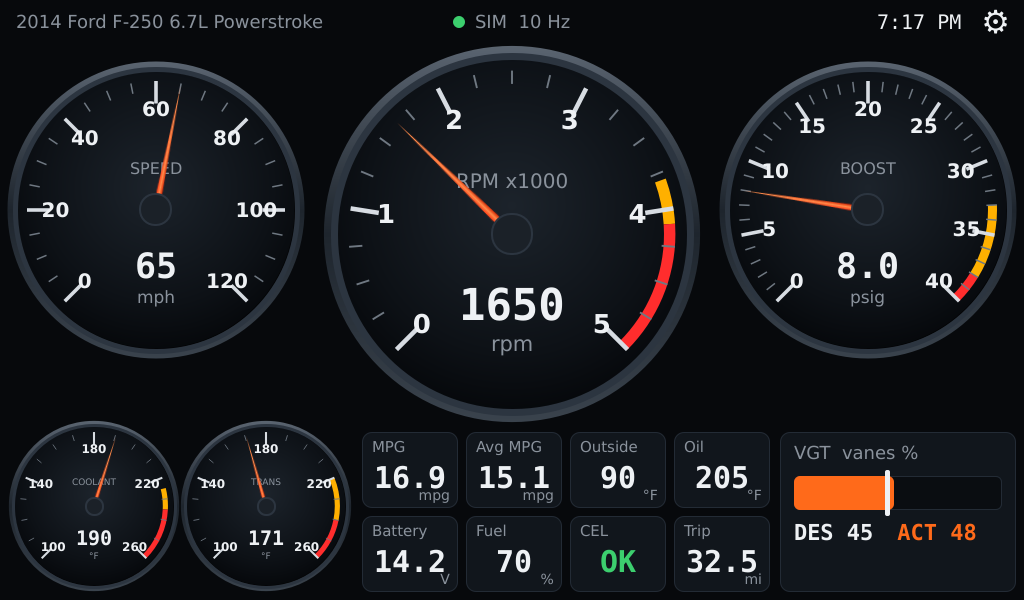
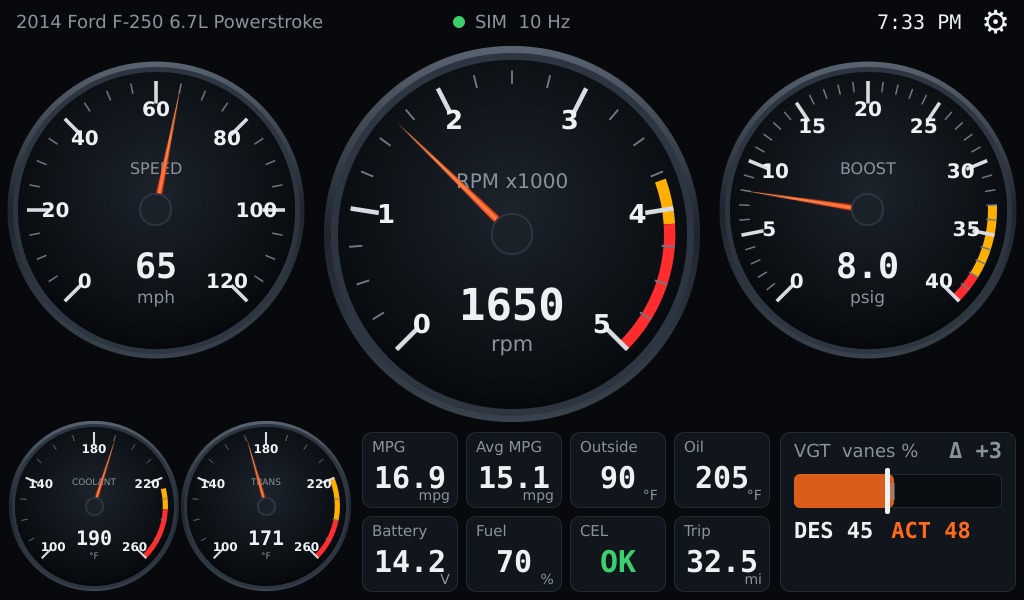
VGT deviation visual: shaded desired-vs-actual band, delta readout, sustained-mismatch alarm
The band between the desired marker and actual fill is coloured by the
size of the gap (grey / amber at dev_warn / red at dev_alarm). The panel
border goes amber or flashing red with 'VANE MISMATCH' / 'VANES NOT
TRACKING' only after the gap persists dev_hold seconds, so normal spool-up
lag doesn't trip it. Thresholds live in the profile. New derived vgt_dev
channel is logged and on the status screen.

Claude-Session: https://claude.ai/code/session_01NB1fknYgN1kqnugTgy4PLe

Changed region(s): [[0.75, 0.72, 0.9688, 0.9], [0.875, 0.03, 0.9062, 0.06]]

diff --git a/gaugeworks/qml/DualBar.qml b/gaugeworks/qml/DualBar.qml
@@ -1,39 +1,82 @@
-// Two values on one bar: actual = fill, desired = marker. Used for VGT vanes.
+// Two values that should track each other (VGT desired vs actual).
+// Fill = actual, white marker = desired, shaded band between them = deviation,
+// coloured by size. The panel only goes warn/alarm when the deviation is
+// SUSTAINED for holdMs (vanes lag briefly during normal transients).
 import QtQuick
 
 Rectangle {
     id: d
     property var theme
-    property string label: "VGT"
+    property var cfg: ({})
+    property string label: cfg.label || "VGT"
     property real desired: 0
     property real actual: 0
     property bool desiredValid: false
     property bool actualValid: false
-    readonly property var colors: theme ? theme.colors : ({})
-    function pct(v) { return Math.max(0, Math.min(100, v)) / 100 }
 
-    color: colors.panel || "#111"
-    border.color: colors.panelBorder || "#333"
+    readonly property var colors: theme ? theme.colors : ({})
+    readonly property real devWarn: cfg.dev_warn !== undefined ? cfg.dev_warn : 10
+    readonly property real devAlarm: cfg.dev_alarm !== undefined ? cfg.dev_alarm : 20
+    readonly property int holdMs: cfg.dev_hold !== undefined ? cfg.dev_hold * 1000 : 1500
+    readonly property bool bothValid: desiredValid && actualValid
+    readonly property real dev: bothValid ? actual - desired : 0
+    readonly property real absDev: Math.abs(dev)
+    readonly property int level: !bothValid ? 0 : absDev >= devAlarm ? 2 : absDev >= devWarn ? 1 : 0
+    property int held: 0              // level that has persisted >= holdMs
+    property bool flash: false
+
+    function pct(v) { return Math.max(0, Math.min(100, v)) / 100 }
+    function levelColor(l) { return l === 2 ? colors.alarm : l === 1 ? colors.warn : colors.dim }
+
+    onLevelChanged: {
+        if (level < held) held = level      // clear immediately when it recovers
+        if (level > held) holdTimer.restart()
+        else holdTimer.stop()
+    }
+    Timer { id: holdTimer; interval: d.holdMs; onTriggered: d.held = d.level }
+    Timer { running: d.held === 2; interval: 400; repeat: true; onTriggered: d.flash = !d.flash }
+
+    color: held === 2 && flash ? Qt.darker(colors.alarm, 2.2) : (colors.panel || "#111")
+    border.color: held > 0 ? levelColor(held) : (colors.panelBorder || "#333")
+    border.width: held > 0 ? 3 : 1
     radius: 10
 
     Text {
-        x: 14; y: 10
+        x: 14; y: 8
         text: d.label + "  vanes %"
         color: d.colors.dim || "gray"
         font.family: d.theme ? d.theme.fonts.label : ""
         font.pixelSize: 18
     }
+    Text {  // live deviation readout, top-right
+        anchors.right: parent.right; anchors.rightMargin: 14; y: 6
+        text: d.bothValid ? "Δ " + (d.dev >= 0 ? "+" : "") + d.dev.toFixed(0) : "Δ --"
+        color: d.bothValid ? d.levelColor(d.level) : (d.colors.dim || "gray")
+        font.family: d.theme ? d.theme.fonts.digits : ""
+        font.pixelSize: 22; font.bold: true
+    }
     Rectangle {
         id: track
-        x: 14; y: 44; width: d.width - 28; height: 34; radius: 6
+        x: 14; y: 42; width: d.width - 28; height: 34; radius: 6
         color: "#0a0d11"; border.color: d.colors.panelBorder || "#333"
-        Rectangle {
+        Rectangle {  // actual = fill
             width: d.actualValid ? parent.width * d.pct(d.actual) : 0
             height: parent.height; radius: 6
             color: d.colors.accent || "orange"
+            opacity: 0.85
             Behavior on width { SmoothedAnimation { velocity: 600 } }
         }
-        Rectangle {  // desired marker
+        Rectangle {  // deviation band between desired and actual
+            visible: d.bothValid && d.absDev >= 1
+            x: parent.width * d.pct(Math.min(d.desired, d.actual))
+            width: parent.width * Math.abs(d.pct(d.actual) - d.pct(d.desired))
+            y: parent.height * 0.25; height: parent.height * 0.5
+            color: d.levelColor(d.level)
+            opacity: d.level === 0 ? 0.5 : 0.95
+            Behavior on x { SmoothedAnimation { velocity: 600 } }
+            Behavior on width { SmoothedAnimation { velocity: 600 } }
+        }
+        Rectangle {  // desired = marker
             visible: d.desiredValid
             x: parent.width * d.pct(d.desired) - width / 2
             y: -6; width: 5; height: parent.height + 12; radius: 2
@@ -42,7 +85,7 @@ Rectangle {
         }
     }
     Row {
-        x: 14; y: 88; spacing: 24
+        x: 14; y: 86; spacing: 18
         Text {
             text: "DES " + (d.desiredValid ? d.desired.toFixed(0) : "--")
             color: d.colors.text || "white"
@@ -53,5 +96,14 @@ Rectangle {
             color: d.colors.accent || "orange"
             font.family: d.theme ? d.theme.fonts.digits : ""; font.pixelSize: 22; font.bold: true
         }
+    }
+    Text {
+        x: 14; y: 122; width: d.width - 28
+        visible: d.held > 0
+        text: d.held === 2 ? "VANES NOT TRACKING" : "VANE MISMATCH"
+        color: d.levelColor(d.held)
+        font.family: d.theme ? d.theme.fonts.label : ""
+        font.pixelSize: 16; font.bold: true
+        fontSizeMode: Text.HorizontalFit; minimumPixelSize: 11; elide: Text.ElideRight
     }
 }

diff --git a/gaugeworks/qml/Main.qml b/gaugeworks/qml/Main.qml
@@ -109,7 +109,7 @@ Rectangle {
             readonly property var c: gauges.vgt || ({})
             visible: !!gauges.vgt
             x: 780; y: 432; width: 236; height: 160
-            theme: root.theme; label: c.label || "VGT"
+            theme: root.theme; cfg: c
             desired: val(c.desired); desiredValid: ok(c.desired)
             actual: val(c.actual); actualValid: ok(c.actual)
         }

diff --git a/gaugeworks/app.py b/gaugeworks/app.py
@@ -26,6 +26,10 @@ DEMO_SCENES = {
               "vgt_desired": 70, "vgt_actual": 74, "econ_inst": 2.1, "econ_avg": 5.9,
               "ambient": 40, "oil_temp_std": 118, "battery": 14.1, "fuel_level": 22, "mil": 1,
               "trip_dist": 140.2, "map": 250, "iat": 45, "dpf_dp": 2.0},
+    "vgtfault": {"rpm": 2100, "speed": 96.6, "boost": 90, "baro": 99, "coolant": 89, "trans_temp": 80,
+                 "vgt_desired": 40, "vgt_actual": 75, "econ_inst": 5.8, "econ_avg": 6.3,
+                 "ambient": 32, "oil_temp_std": 99, "battery": 14.2, "fuel_level": 68, "mil": 0,
+                 "trip_dist": 61.0},
     "shift": {"rpm": 3200, "speed": 72.4, "map": 210, "baro": 99, "boost": 111, "coolant": 90, "iat": 35,
               "econ_inst": 6.0, "econ_avg": 16.0, "ambient": 22, "battery": 14.0,
               "fuel_level": 55, "mil": 0, "trip_dist": 30.0, "dpf_dp": 0.8},
@@ -158,7 +162,7 @@ def main(argv=None) -> int:
             panel.setProperty("visible", True)
 
     if args.screenshot:
-        QTimer.singleShot(1500, lambda: (view.grabWindow().save(args.screenshot), app.quit()))
+        QTimer.singleShot(2600, lambda: (view.grabWindow().save(args.screenshot), app.quit()))
 
     rc = app.exec()
     view.setSource(QUrl())  # tear down QML before the backend goes away

diff --git a/gaugeworks/backend.py b/gaugeworks/backend.py
@@ -169,7 +169,10 @@ class Backend(QObject):
         for name, g in (gw.get("gauges") or {}).items():
             if "desired" in g:  # dual (VGT)
                 gauges[name] = {"desired": g["desired"], "actual": g["actual"],
-                                "label": g.get("label", name.upper())}
+                                "label": g.get("label", name.upper()),
+                                "dev_warn": float(g.get("dev_warn", 10)),
+                                "dev_alarm": float(g.get("dev_alarm", 20)),
+                                "dev_hold": float(g.get("dev_hold", 1.5))}
             elif g.get("key") in ch:
                 gauges[name] = gauge_config(g, ch[g["key"]].get("units", ""), imp)
         tiles = [tile_config(k, ch.get(k, {}), imp) for k in (gw.get("tiles") or [])]
